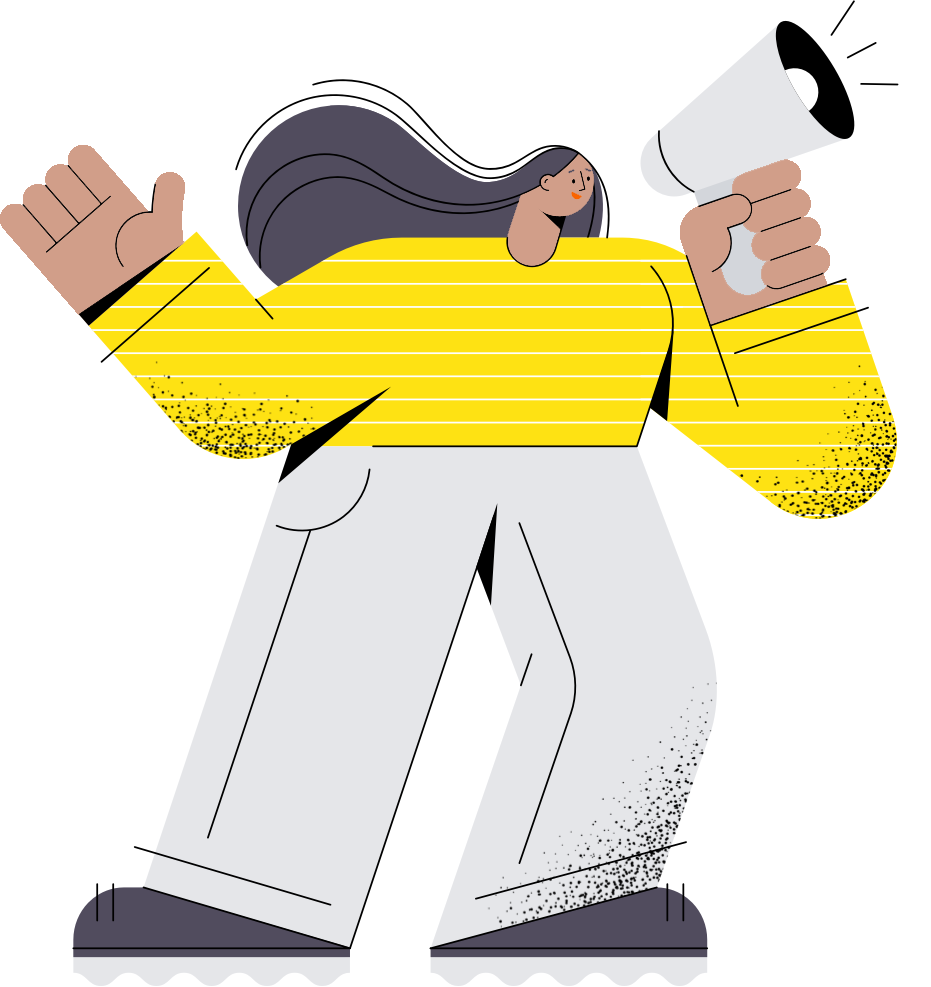
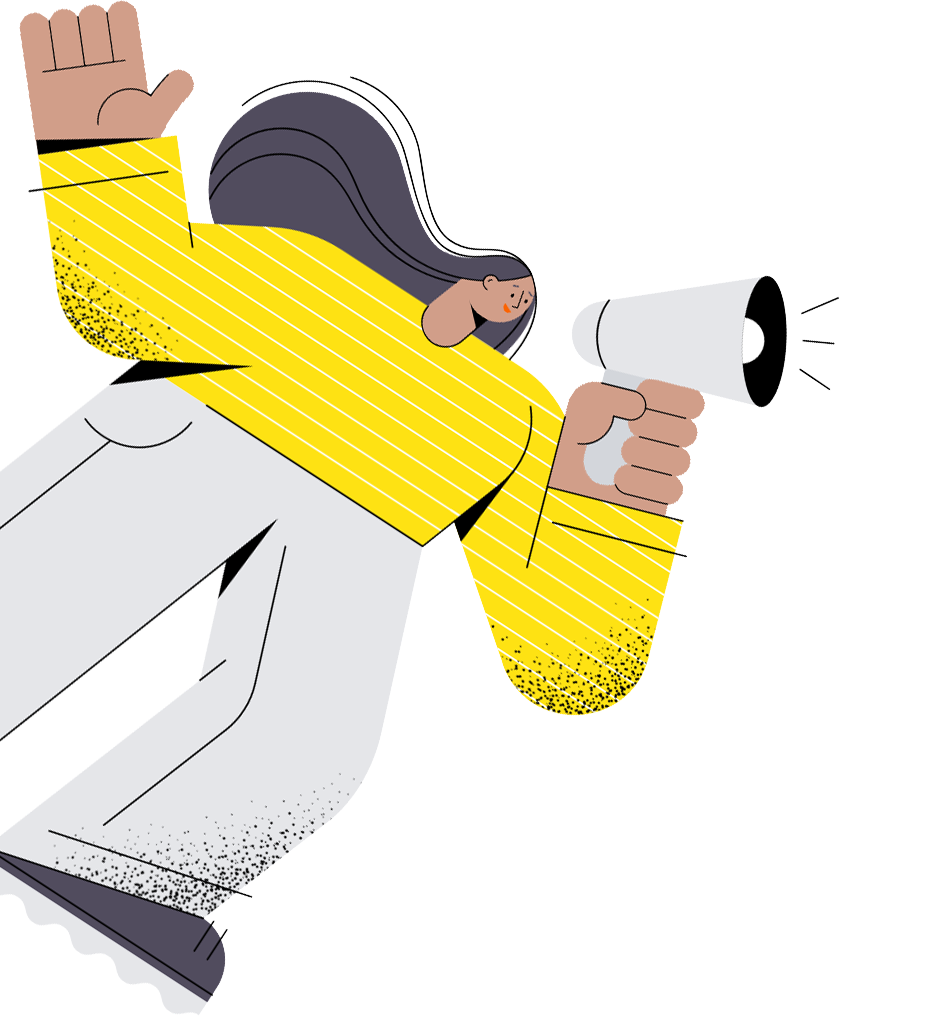
Animação da ilustração

diff --git a/src/components/organisms/ModulosSecao/index.js b/src/components/organisms/ModulosSecao/index.js
@@ -1,12 +1,12 @@
 import React, { Component } from 'react'
-import Card from '../../molecules/Card'
-import TitleSections from '../../atoms/TitleSections'
+import Modulo from '../../molecules/Modulo'
+import TituloSecao from '../../atoms/TituloSecao'
 import './styles.css'
-import Article from '../../atoms/Article'
+import Artigo from '../../atoms/Artigo'
 import Api from '../../../services/Api'
 
 
-class CardsSection extends Component {
+class ModulosSecao extends Component {
   constructor() {
     super()
     this.state = {
@@ -19,21 +19,21 @@ class CardsSection extends Component {
   }
 
   componentDidMount() {    
-    this.loadModulos();  
+    this.carregaModulos();  
   }
 
-  loadModulos = async () => {
+  carregaModulos = async () => {
     const response = await Api.get(`/modulos`);
     this.setState({ modulos: response.data });
   };
 
   onClick = async (materias, id) => {    
     await this.setState({ materias: materias });  
-    this.getMaterial()    
+    this.obterMaterias()    
     this.setState({ display: true, identificacao : id })
   }
 
-  getMaterial = () => {
+  obterMaterias = () => {
     const { materias} = this.state;
     let content = [], teste    
     materias.forEach((item) => {      
@@ -48,10 +48,10 @@ class CardsSection extends Component {
     const { modulos, links, display, identificacao } = this.state;   
 
     let post =
-      (<div className="article__sec">
+      (<div className="artigos__secao">
         {links.map((item) => (
-          <Article
-            aboutLink={item.texto}
+          <Artigo
+            sobreLink={item.texto}
             tag={item.tag}
             link={item.link}
           />
@@ -59,15 +59,15 @@ class CardsSection extends Component {
       </div>)
 
     return (
-      <div className="section__cards" >
-        <TitleSections
+      <div className="modulos__secao" >
+        <TituloSecao
           texto="Guia de Estudos" />
-        <div className="cardSection-container">
+        <div className="modulos__secao--container">
           {modulos.map(({ id, numero, nome, materias }) => (
             <>
-              <Card
+              <Modulo
                 key={id}
-                number={numero}
+                numero={numero}
                 nomeModulo={nome}
                 onClick={() => this.onClick(materias, id)} />
               {(display && identificacao === id) && post}
@@ -80,4 +80,4 @@ class CardsSection extends Component {
 }
 
 
-export default CardsSection
+export default ModulosSecao

diff --git a/src/components/organisms/Header/index.js b/src/components/organisms/Header/index.js
@@ -1,18 +1,22 @@
 import React from 'react'
 import './styles.css'
-import  illustration  from '../../../assets/calma-img.png'
+import illustration from '../../../assets/calma-img.png'
 
 const Header = () => {
-  return(
-    <header className="header">
-      <div className="header__text">
-        <h1>
-          Calma, senhora
+  return (
+    <>
+      <header className="header">
+        <div className="header__text">
+          <h1>
+            Calma, senhora
         </h1>
-        <p>Ajudando novas desenvolvedoras com um roteiro de estudo baseado em um bootcamp estruturado</p>
+          <p>Ajudando novas desenvolvedoras com um roteiro de estudo baseado em um bootcamp estruturado</p>
+        </div>
+      </header>
+      <div className="header__ilustration">
+        <img src={illustration} alt="ilustraçao de uma mulher com megafone em direção ao título do projeto"></img>
       </div>
-      <img src={ illustration }className="header__ilustration" alt="ilustraçao de uma mulher com megafone em direção ao título do projeto"></img>
-    </header>
+    </>
   )
 }
 

diff --git a/src/components/organisms/Header/styles.css b/src/components/organisms/Header/styles.css
@@ -5,12 +5,21 @@
 }
 
 .header__ilustration {
-   z-index: 100;
-  max-height: 1000px;
-  margin-left: -30vw;
-  /* margin-top: -200px; */
-  transform: rotate(30deg);
-  /* box-shadow: 0px 8px 4px rgba(0, 0, 0, 0.25); */
+  position: absolute;
+  z-index: 100;
+  max-height: 100vh;
+  margin-left: -10vw;
+  top: 20px;
+  animation: move 5s linear 2;
+}
+
+@keyframes move {
+  0%, 100% {
+    transform: translateY(30);
+  }
+  50% {
+    transform: translateY(30px);
+  }
 }
 
 .header__text {
@@ -25,10 +34,8 @@ h1 {
   font-family: 'Krona One', sans-serif;
 }
 
-
-
 @media screen and (max-width: 1024px) {
-  .header__ilustration {    
+  .header__ilustration {
     max-height: 1000px;
     margin-left: -60vw;
     margin-top: -200px;
@@ -49,8 +56,8 @@ h1 {
   h1 {
     font-size: 48px
   }
-  .header__text {    
-    max-width: 300px;   
+  .header__text {
+    max-width: 300px;
     margin-top: 25vh;
   }
 }

diff --git a/src/components/organisms/SobreSecao/index.js b/src/components/organisms/SobreSecao/index.js
@@ -1,12 +1,12 @@
 import React from 'react'
-import TitleSections from '../../atoms/TitleSections'
+import TituloSecao from '../../atoms/TituloSecao'
 import './styles.css'
 
 const SobreSecao = ({ texto }) => {
   return (
     <section className="sobreSecao">
       <div className="sobreSecao__container">
-        <TitleSections
+        <TituloSecao
           texto="Sobre" />
         <p>
           O projeto consiste em uma plataforma de estudo, que segue o roteiro do bootcamp de front-end da <a href="https://reprograma.com.br/">{`{reprograma},`}</a>para alunas do bootcamp conseguirem acessar um material de apoio direto, através de vídeos e artigos, e também pessoas que não tenham passado no processo seletivo (ou não poderiam fazê-lo) tenham acesso ao roteiro e alternativas de onde consumir esse conteúdo.

diff --git a/src/Pages/Home/index.js b/src/Pages/Home/index.js
@@ -1,17 +1,15 @@
 import React from 'react'
 import GeneralTemplate from '../../GeneralTemplate'
-import AboutSection from '../../components/organisms/AboutSection'
-import CardsSection from '../../components/organisms/CardsSection'
+import SobreSecao from '../../components/organisms/SobreSecao'
+import ModulosSecao from '../../components/organisms/ModulosSecao'
 import Header from '../../components/organisms/Header'
 
 const Home = () => {
   return (
-    <GeneralTemplate>
-      
+    <GeneralTemplate>      
         <Header />
-        <AboutSection />
-        <CardsSection />
-      
+        <SobreSecao />
+        <ModulosSecao />      
     </GeneralTemplate>
   )
 }

diff --git a/src/components/atoms/Artigo/styles.css b/src/components/atoms/Artigo/styles.css
@@ -1,8 +1,8 @@
-.article {
+.artigo {
   margin:40px auto;
 }
 
-.article__container {
+.artigo__container {
   width: 230px;
   height: 150px;
   background-color: #ccc;
@@ -12,7 +12,7 @@
   
 }
 
-.article__nametag {
+.artigo__tag {
   background-color: #ff7676;
   width: 120px;
   height: 40px;
@@ -24,12 +24,12 @@
   align-items: center;
 }
 
-.article__nametag h3 {
+.artigo__tag h3 {
   font-size: 18px;
   padding-bottom: 10px;
 }
 
-.article__text {  
+.artigo__texto {  
   line-height: 28px;
   font-size: 16px;
  align-self: center;

diff --git a/src/components/organisms/ModulosSecao/styles.css b/src/components/organisms/ModulosSecao/styles.css
@@ -1,16 +1,16 @@
-.section__cards {
-  
+.modulos__secao {  
   text-align: center;
   background-color:  #FFC864;
   padding: 80px 0;
 }
-.cardSection-container {
+
+.modulos__secao--container {
   text-align: center;
   margin: 60px auto 0 auto;
 }
 
 @media screen and (max-width: 768px) {
-  .cardSection-container {
+  .modulos__secao--container {
     max-width: 80%;    
   }
 }
@@ -41,7 +41,7 @@
  align-self: center;
 } */
 
-.article__sec {
+.artigos__secao {
   max-width: 730px;
   display: flex;
   margin: 0 auto;

diff --git a/src/components/molecules/Modulo/index.js b/src/components/molecules/Modulo/index.js
@@ -1,0 +1,20 @@
+import React from 'react'
+import './styles.css'
+import ModuloNome from '../../atoms/ModuloNome'
+import ModuloNumero from '../../atoms/ModuloNumero'
+
+
+const Modulo = ({ numero, nomeModulo, onClick, id }) => {
+  return (
+    <>
+      <div className="modulo__container" onClick={onClick} key={id}>
+        <ModuloNumero numero={numero} />
+        <ModuloNome nomeModulo={nomeModulo}
+        />
+      </div>    
+    </>
+
+  )
+}
+
+export default Modulo

diff --git a/src/components/atoms/Artigo/index.js b/src/components/atoms/Artigo/index.js
@@ -1,0 +1,18 @@
+import React from 'react'
+import './styles.css'
+
+const Artigo = ({ sobreLink, link, tag }) => {
+  return (
+    <div className="artigo">
+      <div className="artigo__tag">
+        <h3>{tag}</h3>
+      </div>
+      <div className="artigo__container">
+        <a href={link} target="_blank" className="artigo__texto">{sobreLink}</a>
+      </div>
+    </div>
+  )
+}
+
+
+export default Artigo

diff --git a/src/components/molecules/Modulo/styles.css b/src/components/molecules/Modulo/styles.css
@@ -1,4 +1,4 @@
-.card__container {
+.modulo__container {
   max-width: 730px;
   border: 2px solid #000;
   margin: 20px auto;
@@ -8,7 +8,7 @@
   padding: 20px;
   /* background-color: #fff; */
 }
-.card__container:hover {
+.modulo__container:hover {
   cursor: pointer;
   color:#fff;
   background-color: #000;

diff --git a/src/components/atoms/ModuloNome/index.js b/src/components/atoms/ModuloNome/index.js
@@ -2,10 +2,10 @@ import React from 'react'
 import './styles.css'
 
 
-const ModuleTitle = ({nomeModulo}) => {
+const ModuloNome = ({nomeModulo}) => {
   return (
     <h3>{nomeModulo}</h3>
   )
 }
 
-export default ModuleTitle
+export default ModuloNome

diff --git a/src/components/atoms/ModuloNumero/index.js b/src/components/atoms/ModuloNumero/index.js
@@ -1,0 +1,11 @@
+import React from 'react'
+import './styles.css'
+
+
+const ModuloNumero = ({numero}) => {
+  return (
+    <h4>MÓDULO {numero}</h4>
+  )
+}
+
+export default ModuloNumero
